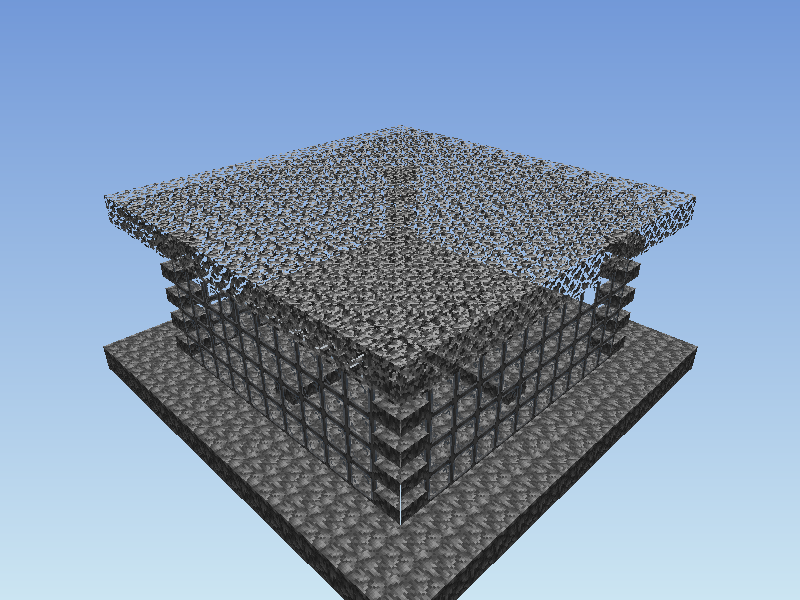
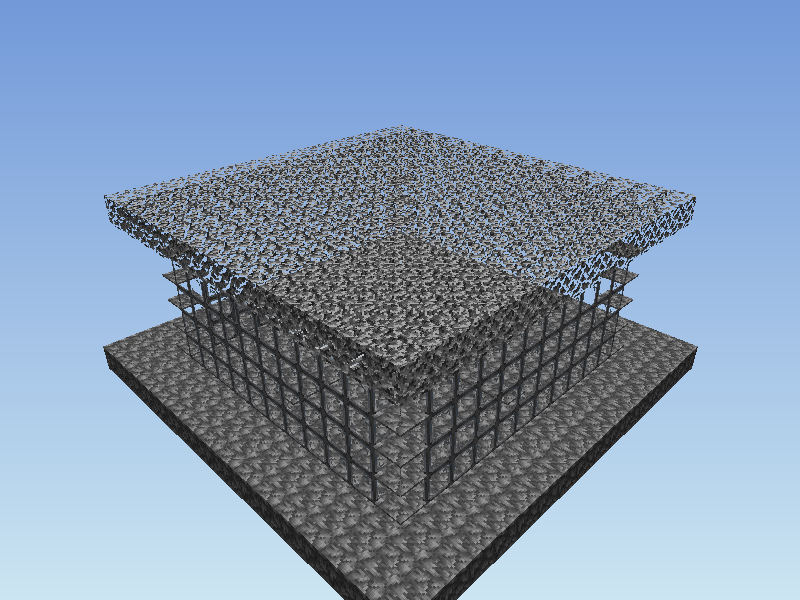
Ensure slabs greedily merge.

diff --git a/src/mesh.rs b/src/mesh.rs
@@ -120,19 +120,37 @@ fn face_axis_indices(face: Face) -> (usize, usize, usize) {
     }
 }
 
-/// Whether a neighbor block fully covers the block boundary on the given
-/// `neighbor_face` (the face of the neighbor that touches our block).
-fn neighbor_covers_boundary<B: Block>(neighbor: &B, neighbor_face: Face) -> bool {
+/// Whether the neighbor fully covers the block's face region on the shared
+/// boundary. For whole-blocks this is simple; for slabs we must check whether
+/// the neighbor occupies at least the same sub-region as the block along the
+/// slab axis.
+fn neighbor_covers_face_region<B: Block>(block: &B, neighbor: &B, face: Face) -> bool {
     match neighbor.shape() {
         Shape::WholeBlock => true,
-        Shape::Slab(info) => info.face == neighbor_face,
+        Shape::Slab(n_info) => {
+            // The neighbor slab is flush against our face on this boundary
+            // only if its slab face equals our face's opposite.
+            if n_info.face == face.opposite() {
+                return true;
+            }
+            // For side faces: if the block is also a slab with the same axis
+            // and the neighbor covers at least the block's extent, it culls.
+            if let Shape::Slab(b_info) = block.shape() {
+                if b_info.face.axis() == n_info.face.axis() && face.axis() != b_info.face.axis() {
+                    // Both slabs share the same axis; the neighbor covers our
+                    // region if its thickness is >= ours on the same side.
+                    return b_info.face == n_info.face && n_info.thickness >= b_info.thickness;
+                }
+            }
+            false
+        }
     }
 }
 
 /// Whether the current block's face is culled by the given neighbor.
 /// Only call this for faces that sit at the block boundary (flush / side).
 fn is_culled_at_boundary<B: Block>(block: &B, neighbor: &B, face: Face) -> bool {
-    if !neighbor_covers_boundary(neighbor, face.opposite()) {
+    if !neighbor_covers_face_region(block, neighbor, face) {
         return false;
     }
     match neighbor.cull_mode() {

diff --git a/tests/greedy_merge.rs b/tests/greedy_merge.rs
@@ -19,6 +19,21 @@ fn flat_layer_merges_into_one_quad_per_face() {
 }
 
 #[test]
+fn flat_slab_layer_merges_into_one_quad_per_face() {
+    let mut chunk = PaddedChunk::new_filled(TestBlock::Air);
+    for x in 0..CHUNK_SIZE {
+        for z in 0..CHUNK_SIZE {
+            chunk.set(x, 0, z, TestBlock::LowerSlab);
+        }
+    }
+    let q = greedy_mesh(&chunk);
+    for face in Face::ALL {
+        assert_eq!(face_count(&q, face), 1, "face {:?}", face);
+    }
+    assert_eq!(q.total(), 6);
+}
+
+#[test]
 fn full_chunk_same_block_produces_six_quads() {
     let mut chunk = PaddedChunk::new_filled(TestBlock::Air);
     for x in 0..CHUNK_SIZE {

diff --git a/examples/render_chunk.rs b/examples/render_chunk.rs
@@ -39,7 +39,7 @@ impl Block for MyBlock {
         match self {
             MyBlock::CobbleSlab => Shape::Slab(SlabInfo {
                 face: Face::NegY,
-                thickness: 8,
+                thickness: 1,
             }),
             _ => Shape::WholeBlock,
         }
